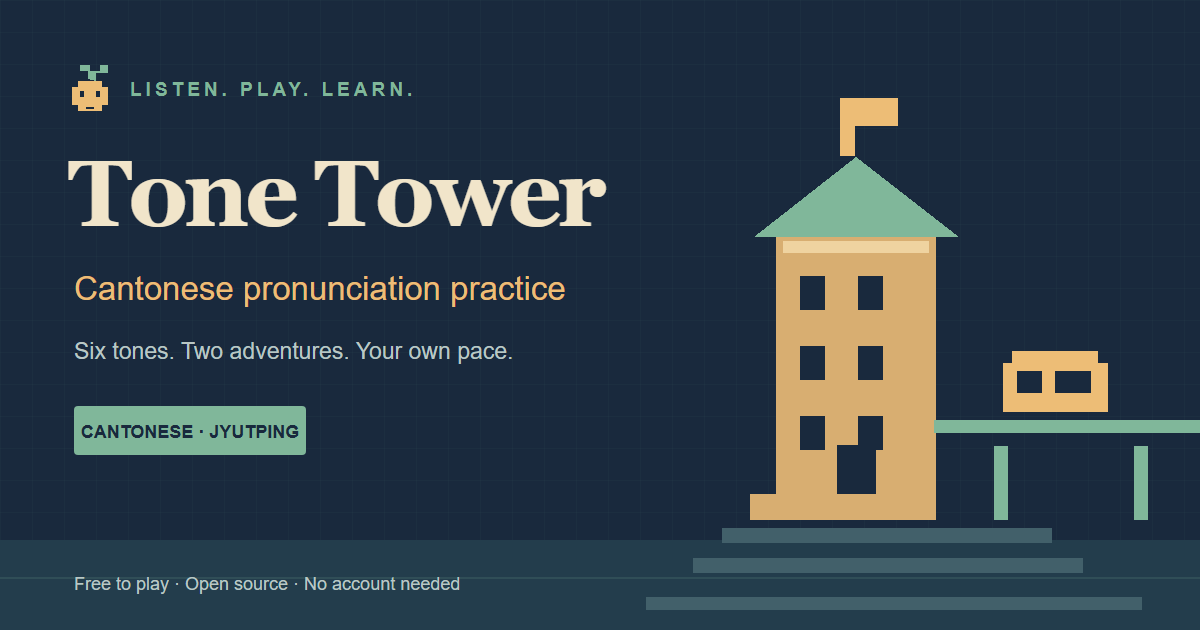
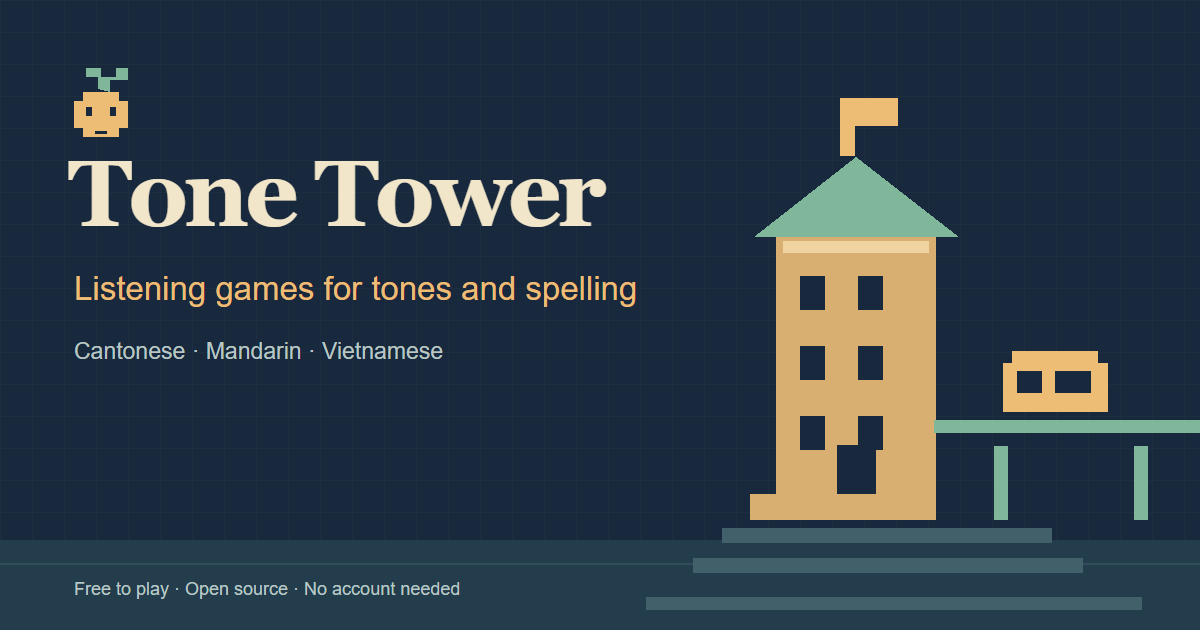
Polish Tone Tower GitHub presentation (#7)

diff --git a/index.html b/index.html
@@ -7,7 +7,7 @@
     <meta name="theme-color" content="#19293d" />
     <meta
       name="description"
-      content="Practise Pinyin, Jyutping and Vietnamese with listening games and exercises."
+      content="Free browser games for tones and spelling. Practise Cantonese Jyutping, Mandarin Pinyin and Vietnamese tones."
     />
     <title>Tone Tower · Choose a language</title>
     <link rel="canonical" href="https://tone-tower.github.io/tone-tower/" />
@@ -17,10 +17,10 @@
     <meta property="og:type" content="website" />
     <meta property="og:site_name" content="Tone Tower" />
     <meta property="og:locale" content="en_GB" />
-    <meta property="og:title" content="Tone Tower · Choose a language" />
+    <meta property="og:title" content="Tone Tower · Listening games" />
     <meta
       property="og:description"
-      content="Practise Pinyin, Jyutping and Vietnamese with listening games and exercises."
+      content="Free browser games for tones and spelling. Practise Cantonese Jyutping, Mandarin Pinyin and Vietnamese tones."
     />
     <meta property="og:url" content="https://tone-tower.github.io/tone-tower/" />
     <meta
@@ -31,13 +31,13 @@
     <meta property="og:image:height" content="630" />
     <meta
       property="og:image:alt"
-      content="Tone Tower. Listening practice for Mandarin, Cantonese and Vietnamese."
+      content="An illustrated tower and railway beside the words Tone Tower, listening games for tones and spelling."
     />
     <meta name="twitter:card" content="summary_large_image" />
-    <meta name="twitter:title" content="Tone Tower · Choose a language" />
+    <meta name="twitter:title" content="Tone Tower · Listening games" />
     <meta
       name="twitter:description"
-      content="Practise Pinyin, Jyutping and Vietnamese with listening games and exercises."
+      content="Free browser games for tones and spelling. Practise Cantonese Jyutping, Mandarin Pinyin and Vietnamese tones."
     />
     <meta
       name="twitter:image"
@@ -45,7 +45,7 @@
     />
     <meta
       name="twitter:image:alt"
-      content="Tone Tower. Listening practice for Mandarin, Cantonese and Vietnamese."
+      content="An illustrated tower and railway beside the words Tone Tower, listening games for tones and spelling."
     />
     <link rel="stylesheet" href="src/styles/style.css" />
     <link rel="stylesheet" href="src/styles/worlds.css" />

diff --git a/docs/PUBLISHING.md b/docs/PUBLISHING.md
@@ -137,6 +137,25 @@ Public identity and page descriptions live in `src/site.ts`. The root chooser is
 source. The sprout favicon is supplied as SVG and ICO, plus an Apple touch icon.
 Social services may cache old previews after deployment.
 
+### GitHub organization and repository
+
+1. In the [organization profile settings](https://github.com/organizations/tone-tower/settings/profile), upload the [sprout icon](../assets/brand/apple-touch-icon.png) and set the website to `https://tone-tower.github.io/tone-tower/`.
+2. Create a public repository named `.github` under `tone-tower` if one doesn't already exist. Add `profile/README.md` there using the text below. On the organization overview, edit the public pins and select `tone-tower/tone-tower`. [GitHub organization profile guide](https://docs.github.com/en/organizations/collaborating-with-groups-in-organizations/customizing-your-organizations-profile)
+3. On the [main repository](https://github.com/tone-tower/tone-tower), edit the **About** panel. Set the website to the same address and the description to “Free browser games for practising tones and spelling.”
+4. In the repository's **Settings → General → Social preview**, upload the [share card](../assets/brand/share-card.png). [GitHub social preview guide](https://docs.github.com/en/repositories/managing-your-repositorys-settings-and-features/customizing-your-repository/customizing-your-repositorys-social-media-preview)
+
+```markdown
+# Tone Tower
+
+Free browser games for practising tones and spelling.
+
+**[Play in your browser](https://tone-tower.github.io/tone-tower/)**
+
+[Cantonese](https://tone-tower.github.io/tone-tower/cantonese/) · [Mandarin](https://tone-tower.github.io/tone-tower/mandarin/) · [Vietnamese](https://tone-tower.github.io/tone-tower/vietnamese/)
+
+Listen and choose a tone in Tone Tower, or practise Jyutping and Pinyin spelling in Skyrail.
+```
+
 Feedback uses this repository's Issues tab. Keep **Settings → General → Features → Issues**
 enabled. Bug and idea forms live in `.github/ISSUE_TEMPLATE/`; posting requires a GitHub
 account. The About page explains that reports and replies are public, so no private

diff --git a/README.md b/README.md
@@ -1,12 +1,22 @@
 # Tone Tower
 
-Browser games for Cantonese Jyutping, Mandarin Pinyin and Vietnamese tones. Each language has its own site and progress. Tone Tower trains tone recognition; Skyrail trains spelling. Vietnamese offers Tone Tower only. Built with vanilla TypeScript, JavaScript canvas renderers, and Vite, with no accounts, analytics, or runtime services.
+Free browser games for practising tones and spelling. No account needed.
 
-[Play Tone Tower](https://tone-tower.github.io/tone-tower/) · [Report a problem](https://github.com/tone-tower/tone-tower/issues/new?template=bug-report.yml) · [Suggest an idea](https://github.com/tone-tower/tone-tower/issues/new?template=idea.yml)
+**[Play in your browser](https://tone-tower.github.io/tone-tower/)**
 
-Feedback and contributions are welcome on GitHub. Issues and replies are public.
+[Cantonese](https://tone-tower.github.io/tone-tower/cantonese/) · [Mandarin](https://tone-tower.github.io/tone-tower/mandarin/) · [Vietnamese](https://tone-tower.github.io/tone-tower/vietnamese/)
+
+[![A Cantonese Tone Tower round showing a word prompt and numbered tone doors](docs/images/tone-tower-gameplay.jpg)](https://tone-tower.github.io/tone-tower/)
+
+In **Tone Tower**, listen to a word and choose its tone to climb the tower. In **Skyrail**, type what you hear in Cantonese Jyutping or Mandarin Pinyin. Vietnamese has its own Tone Tower adventure.
+
+[Report a problem](https://github.com/tone-tower/tone-tower/issues/new?template=bug-report.yml) · [Suggest an idea](https://github.com/tone-tower/tone-tower/issues/new?template=idea.yml)
+
+Feedback and contributions are welcome. GitHub issues and replies are public.
 
 ## Development
+
+Built with vanilla TypeScript, JavaScript canvas renderers, and Vite. The game uses no analytics or runtime services. Progress is stored separately for each language in the browser.
 
 Use Node.js 22.12 or later.
 
